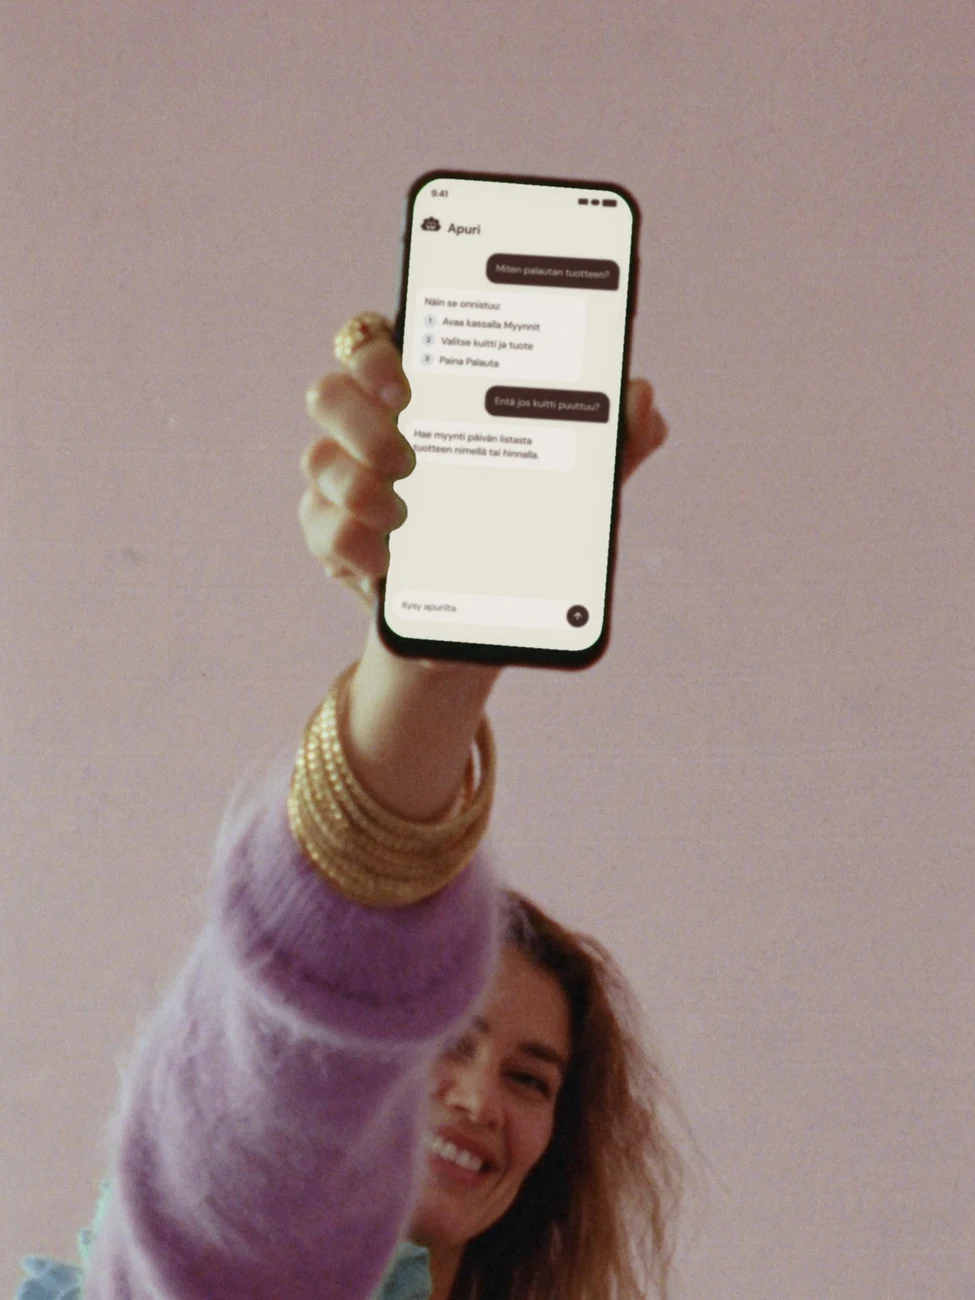
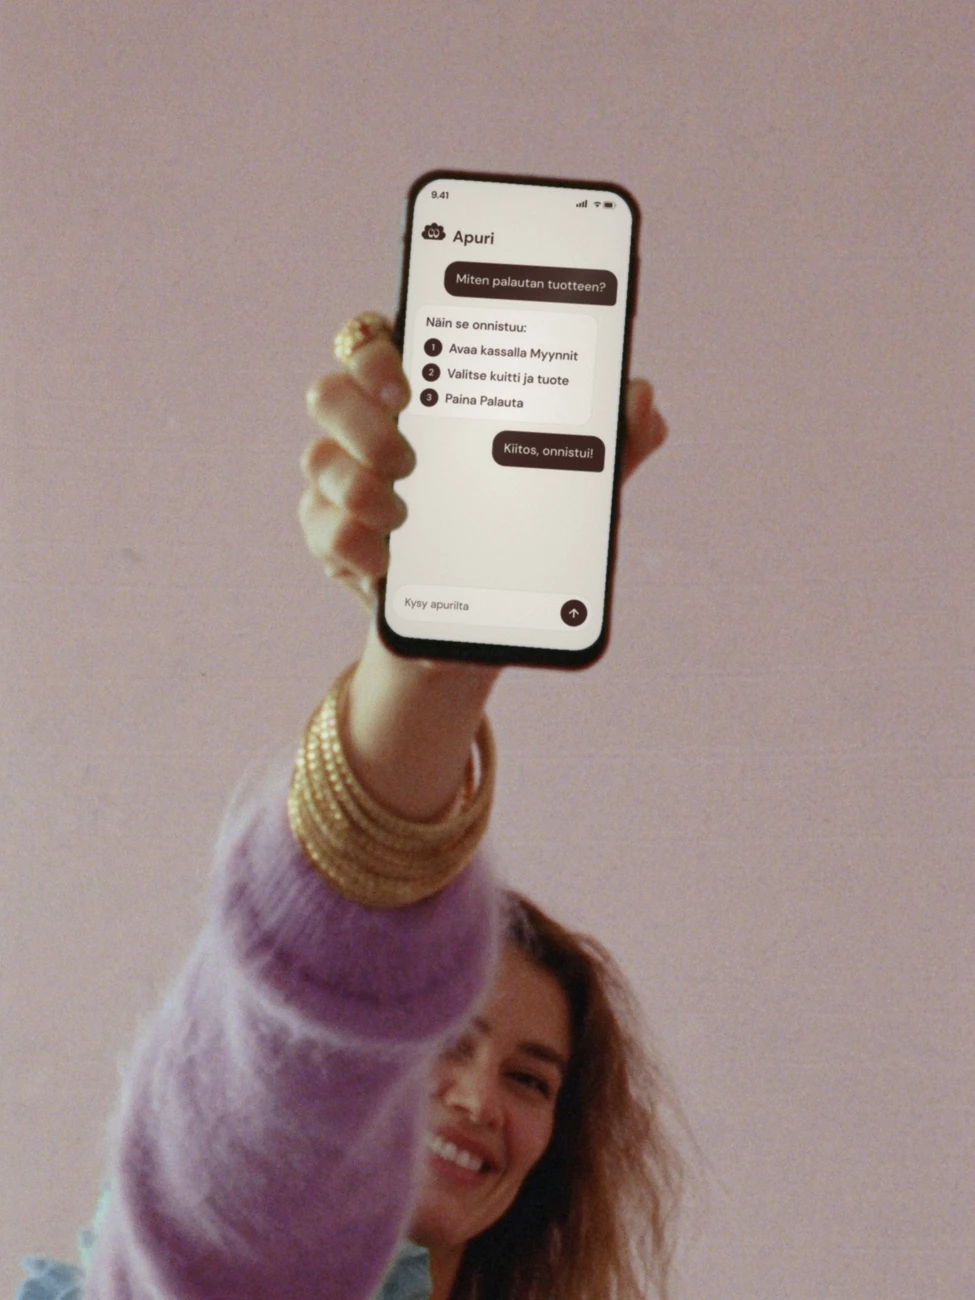
Tuki: apurikortin näkymä isommaksi ja luettavammaksi, sormien reunat pehmeämmiksi
Claude-Session: https://claude.ai/code/session_01GFdz22wxCZYfy3LenkEfZr

Changed region(s): [[0.4, 0.1231, 0.6462, 0.3692], [0.4, 0.4615, 0.4923, 0.4923], [0.5538, 0.4615, 0.6154, 0.4923]]

diff --git a/resella.html b/resella.html
@@ -1049,7 +1049,7 @@ section.fd{background:var(--blue)}
     <img src="assets/m/t1.webp?v=2" alt="Opetusvideot: lyhyet videot näyttävät kassan, tilitykset ja myyjien ohjeet vaihe vaiheelta." loading="lazy">
     <img src="assets/m/t2.webp" alt="Puhelintuki: soita suoraan meille, kun tarvitset apua kassalla tai tilityksissä." loading="lazy">
     <img src="assets/m/t3.webp?v=2" alt="Sähköposti: kirjoita kysymyksesi, niin vastaamme." loading="lazy">
-    <img src="assets/m/t4.webp?v=2" alt="Apuri järjestelmässä: kysy apurilta suoraan järjestelmässä." loading="lazy">
+    <img src="assets/m/t4.webp?v=3" alt="Apuri järjestelmässä: kysy apurilta suoraan järjestelmässä." loading="lazy">
   </div>
 </section>
 
@@ -1351,7 +1351,7 @@ section.fd{background:var(--blue)}
         <a class="rc-btn" href="#varaa">Lue lisää</a>
       </article>
       <article class="rcard" style="--cb:#C24029;--ci:#ECECDC">
-        <div class="rc-media"><img src="assets/kuvat/02_kassa_maksu/03c_tuki_apuri.webp" alt="Puhelimella auki Apuri, joka neuvoo tuotteen palautuksen" style="object-position:50% 30%" loading="lazy"></div>
+        <div class="rc-media"><img src="assets/kuvat/02_kassa_maksu/03c_tuki_apuri.webp?v=2" alt="Puhelimella auki Apuri, joka neuvoo tuotteen palautuksen" style="object-position:50% 30%" loading="lazy"></div>
         <div class="rc-body"><h3>Apuri järjestelmässä</h3><p>Kysy apurilta suoraan järjestelmässä, niin se näyttää, miten asia tehdään.</p></div>
         <a class="rc-btn" href="#varaa">Lue lisää</a>
       </article>
